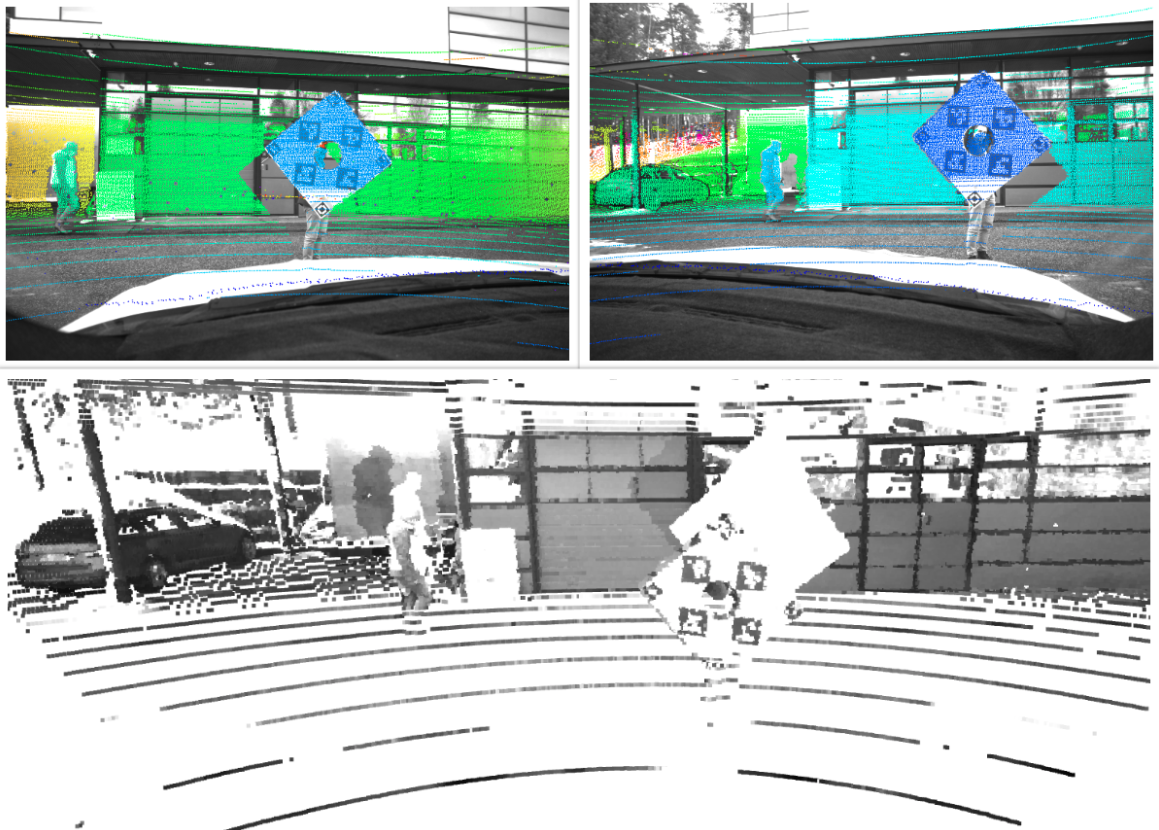
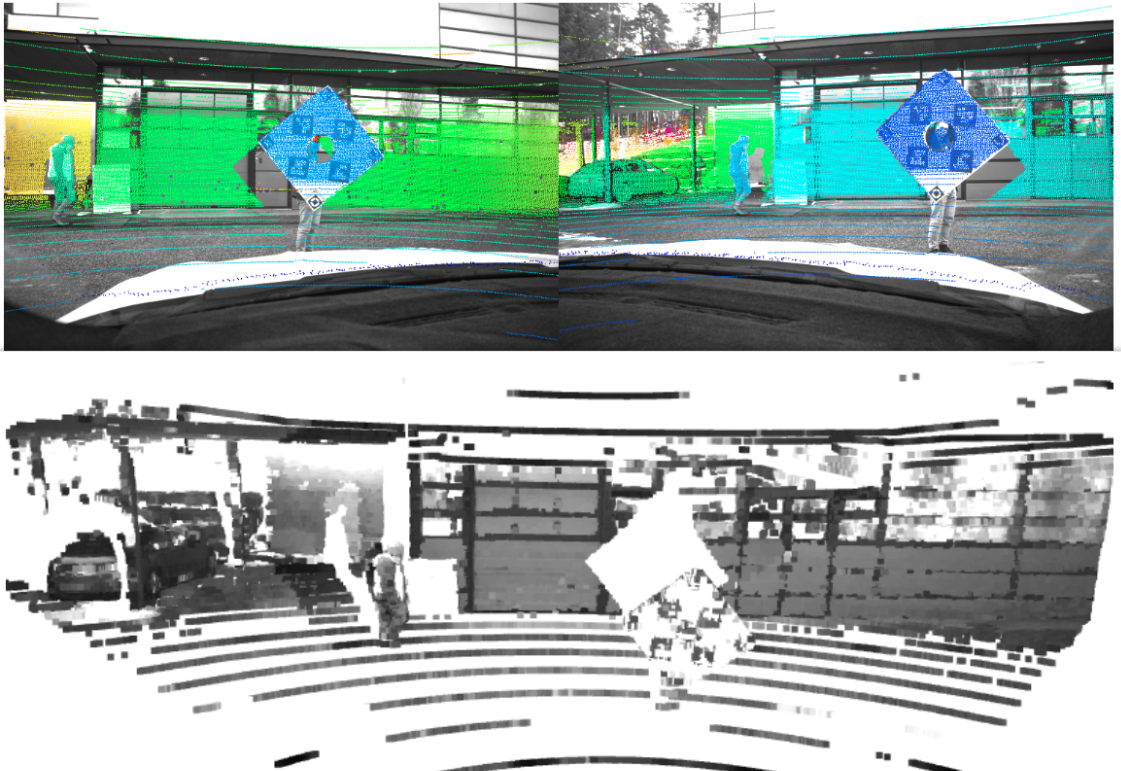
changed sensor fused image

diff --git a/stereo_tune.py b/stereo_tune.py
@@ -217,8 +217,8 @@ def point_cloud(depth, colors):
 l = '/home/eugeniu/catkin_ws/src/testNode/CAMERA_CALIBRATION/left_0.png'
 r = '/home/eugeniu/catkin_ws/src/testNode/CAMERA_CALIBRATION/right_0.png'
 i=11
-l = '/home/eugeniu/catkin_ws/src/testNode/CAMERA_CALIBRATION/cool/left_{}.png'.format(i)
-r = '/home/eugeniu/catkin_ws/src/testNode/CAMERA_CALIBRATION/cool/right_{}.png'.format(i)
+#l = '/home/eugeniu/catkin_ws/src/testNode/CAMERA_CALIBRATION/cool/left_{}.png'.format(i)
+#r = '/home/eugeniu/catkin_ws/src/testNode/CAMERA_CALIBRATION/cool/right_{}.png'.format(i)
 imgLeft = cv2.imread(l, 0)
 imgRight = cv2.imread(r, 0)
 
@@ -229,8 +229,8 @@ undistortAgain = True# False
 if undistortAgain:
     R1, R2, P1, P2, Q, roi_left, roi_right = cv2.stereoRectify(K_left, D_left, K_right, D_right, img_shape, R, T,
                                                                flags=cv2.CALIB_ZERO_DISPARITY,
-                                                               # alpha=-1
-                                                               alpha=0
+                                                               alpha=-1
+                                                               #alpha=0
                                                                )
 
     leftMapX, leftMapY = cv2.initUndistortRectifyMap(
@@ -280,7 +280,7 @@ def stereo_depth_map(imgL, imgR):
     displ = np.int16(displ)
     dispr = np.int16(dispr)
     filteredImg = wls_filter.filter(displ, imgL, None, dispr)
-    #filteredImg = cv2.normalize(src=filteredImg, dst=filteredImg, beta=0, alpha=255, norm_type=cv2.NORM_MINMAX)
+    filteredImg = cv2.normalize(src=filteredImg, dst=filteredImg, beta=0, alpha=255, norm_type=cv2.NORM_MINMAX)
     filteredImg = np.uint8(filteredImg)
 
     #stereo = cv2.StereoBM_create(numDisparities=numDisparities * 16, blockSize=blockSize)
